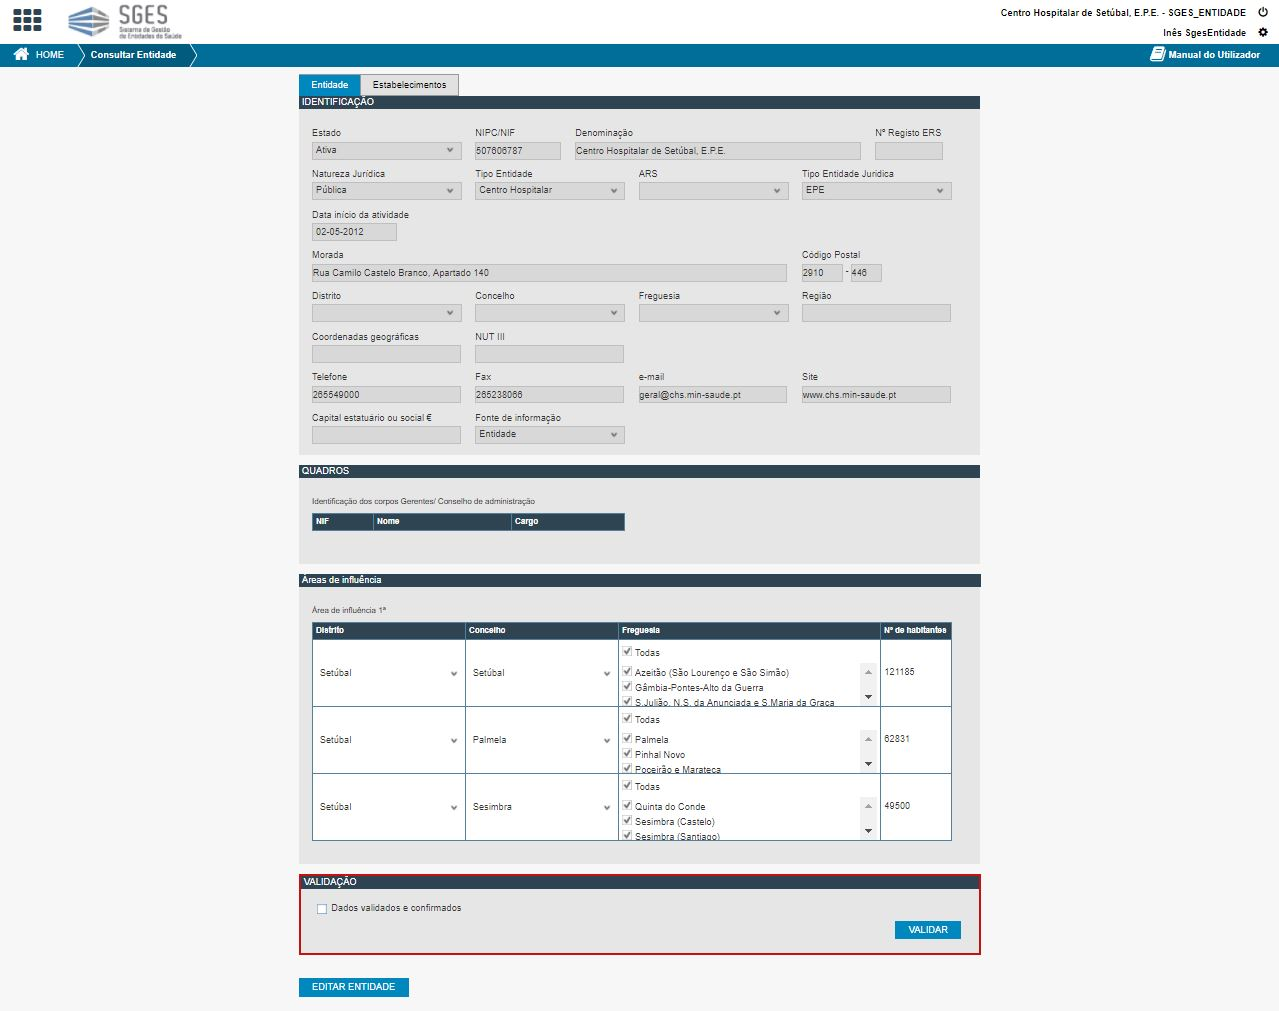
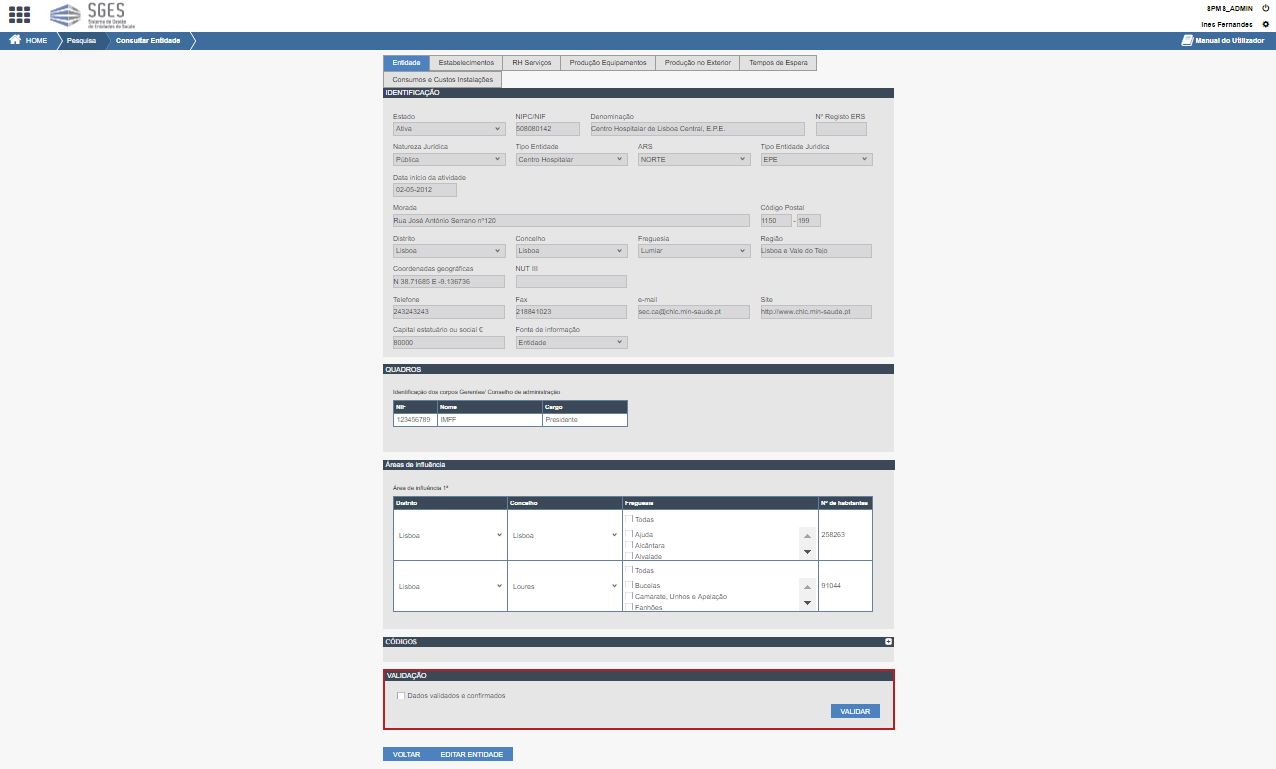
consumos custos instalacoes

diff --git a/Indice.html b/Indice.html
@@ -39,7 +39,6 @@
 					</ul>
 				</li>
 				<li>
-				<li>
 					<div> 5 - Menu Principal</div>
 					<ul>
 					    <li>
@@ -159,142 +158,150 @@
 					</ul>
 				</li>
 				<li>
-					<div>12 - Equipamentos</div>
+					<div> 12 - Consumos e Custos Instalações </div>
 					<ul>
-						<li>
-							<a href="#equipamentos">12 - Equipamentos</a>
-						</li>
-						<li>
-							<div>12.1 - Criar Equipamentos</div>
-							<ul>
-								<li>
-									<a href="#criaEquipamento">12.1 - Criar Equipamentos</a>
-								</li>
-								<li>
-									<a href="#identificao">12.1.1 - Identificação</a>
-								</li>
-								<li>
-									<a href="#outros-painis">12.1.2 - Outros painéis</a>
-								</li>
-							</ul>
-						</li>
-						<li>
-							<a href="#alteraEquipamento">12.2 - Editar Equipamentos</a>
-						</li>
-						<li>
-							<a href="#consultaEquipamento">12.3 - Consultar Equipamentos</a>
-						</li>
-						<li>
-							<a href="#transfereEquipamento">12.4 - Transferir Equipamentos</a>
-						</li>
-						<li>
-							<a href="#historicoEquipamento">12.5 - Histórico Equipamentos</a>
+					    <li>
+							<a href="#home">12 - Consumos e Custos Instalações</a>
 						</li>
 					</ul>
 				</li>
 				<li>
-					<div>13 - Validações</div>
+					<div>13 - Equipamentos</div>
 					<ul>
 						<li>
-							<a href="#validacao">13 - Validações</a>
+							<a href="#equipamentos">13 - Equipamentos</a>
+						</li>
+						<li>
+							<div>13.1 - Criar Equipamentos</div>
+							<ul>
+								<li>
+									<a href="#criaEquipamento">13.1 - Criar Equipamentos</a>
+								</li>
+								<li>
+									<a href="#identificao">13.1.1 - Identificação</a>
+								</li>
+								<li>
+									<a href="#outros-painis">13.1.2 - Outros painéis</a>
+								</li>
+							</ul>
+						</li>
+						<li>
+							<a href="#alteraEquipamento">13.2 - Editar Equipamentos</a>
+						</li>
+						<li>
+							<a href="#consultaEquipamento">13.3 - Consultar Equipamentos</a>
+						</li>
+						<li>
+							<a href="#transfereEquipamento">13.4 - Transferir Equipamentos</a>
+						</li>
+						<li>
+							<a href="#historicoEquipamento">13.5 - Histórico Equipamentos</a>
+						</li>
+					</ul>
+				</li>
+				<li>
+					<div>14 - Validações</div>
+					<ul>
+						<li>
+							<a href="#validacao">14 - Validações</a>
 						</li>
 						<ul>
 						    <li>
-							   <a href="#validarModulo">13.1 - Validar Módulo</a>
+							   <a href="#validarModulo">14.1 - Validar Módulo</a>
 						   </li>
 						   <li>
-							  <a href="#modulosValidaveis">13.2 - Módulos com validação</a>
+							  <a href="#modulosValidaveis">14.2 - Módulos com validação</a>
 						   </li>
 						</ul>
 					</ul>
 				</li>
 				<li>
-					<div>14 - Instalações</div>
+					<div>15 - Instalações</div>
 							<ul>
 								<li>
-								   <a href="#instalacao" > 14 - Instalações </a>
+								   <a href="#instalacao" > 15 - Instalações </a>
 								</li>
 								<li>
-								   <div> 14.1 - Criar Instalações</div>
+								   <div> 15.1 - Criar Instalações</div>
 								<ul>
 								    <li>
-									   <a href="#criaInstalacao">14.1 - Criar Instalações </a>
+									   <a href="#criaInstalacao">15.1 - Criar Instalações </a>
 								    </li>
 									<li>
-									   <a href="#caracterizao-inst">14.1.1 - Caracterização</a>
+									   <a href="#caracterizao-inst">15.1.1 - Caracterização</a>
 								    </li>
 								    <li>
-									   <a href="#detalhe-inst">14.1.2 - Detalhe</a>
+									   <a href="#detalhe-inst">15.1.2 - Detalhe</a>
 								    </li>
 								    <li>
-									   <a href="#equipamentos-crticos">14.1.3 - Equipamentos Críticos</a>
+									   <a href="#equipamentos-crticos">15.1.3 - Equipamentos Críticos</a>
 								    </li>
 								    <li>
-									    <a href="#servios">14.1.4 - Serviços</a>
+									    <a href="#servios">15.1.4 - Serviços</a>
 								    </li>
 								    <li>
-									   <a href="#contratos-de-manuteno">14.1.5 - Contratos de Manutenção</a>
+									   <a href="#contratos-de-manuteno">15.1.5 - Contratos de Manutenção</a>
 								    </li>
 								    <li>
-									   <a href="#avaliao-ps-ocupao">14.1.6 - Avaliação Pós-Ocupação</a>
+									   <a href="#avaliao-ps-ocupao">15.1.6 - Avaliação Pós-Ocupação</a>
 								    </li>
 								    <li>
-									   <a href="#acao-acss" ">14.1.7 - Ações ACSS</a>
+									   <a href="#acao-acss" ">15.1.7 - Ações ACSS</a>
 								    </li> 
 								 </ul>
 								 </li>
 					 	         <li>
-							         <a href="#editar-instalaes">14.2 - Editar Instalações</a>
+							         <a href="#editar-instalaes">15.2 - Editar Instalações</a>
 						         </li>
 						         <li>
-							         <a href="#consultar-instalaes">14.3 - Consultar Instalações</a>
+							         <a href="#consultar-instalaes">15.3 - Consultar Instalações</a>
 						         </li>
 						         <li>
-							         <a href="#histrico-instalaes">14.4 - Histórico Instalações</a>
+							         <a href="#histrico-instalaes">15.4 - Histórico Instalações</a>
 						         </li>
 							</ul>
 				</li>
 				 <li>
-				<div>15 - Acordos  e Convenções</div>
+				<div>16 - Acordos  e Convenções</div>
 					<ul>
 						<li>
-							<a href="#aconvencao">15 - Acordos e Convenções </a>
+							<a href="#aconvencao">16 - Acordos e Convenções </a>
 						</li>
 						<li>
-							 <div href="#registaAconvencao">15.1 - Criar Acordo/Convenção
+							 <div href="#registaAconvencao">16.1 - Criar Acordo/Convenção
 							 </div>
 								<ul>
 							  		 <li>
-							     		<a href="#areaConvencionada"> 15.1.1 - Adicionar Área </a>
+							     		<a href="#areaConvencionada"> 16.1.1 - Adicionar Área </a>
 							   		</li>
 							  		 <li>
-							    		 <a href="#estabelecimentosConvencionados">15.1.2 - Associar Estabelecimentos </a>
+							    		 <a href="#estabelecimentosConvencionados">16.1.2 - Associar Estabelecimentos </a>
 							  		 </li>
 							  		 <li>
-							    		 <a href="#rhConvencao">15.1.3 - Adicionar Recursos Humanos Técnicos </a>
+							    		 <a href="#rhConvencao">16.1.3 - Adicionar Recursos Humanos Técnicos </a>
 							   		</li>
 								</ul>
 							</li>
 						<li>
-							<a href="#alteraConvencao">15.2 - Editar Acordo </a>
+							<a href="#alteraConvencao">16.2 - Editar Acordo </a>
 						</li>
 						<li>
-							<a href="#consultaAconvencao">15.3 - Consultar Acordo/Convenção</a>
+							<a href="#consultaAconvencao">16.3 - Consultar Acordo/Convenção</a>
 						</li>
 						<li>
-					     <a href="#alteraEstado"> 15.4 - Alterar Estado </a>
+					     <a href="#alteraEstado"> 16.4 - Alterar Estado </a>
 						</li>
 						<li>
-					     <a href="#historicoConvencao"> 15.5 - Histórico Convenções </a>
+					     <a href="#historicoConvencao"> 16.5 - Histórico Convenções </a>
 						</li>
 						<li>
-					     <a href="#exportar"> 15.6 - Exportar Ficha Técnica </a>
+					     <a href="#exportar"> 16.6 - Exportar Ficha Técnica </a>
 						</li>
 						<li>
-					     <a href="#importar"> 15.7 - Importar Ficha Técnica </a>
+					     <a href="#importar"> 16.7 - Importar Ficha Técnica </a>
 						</li>
 						<li>
-							<a href="#atualizar">15.8 - Importar Atualizações da Ficha Técnica </a>
+							<a href="#atualizar">16.8 - Importar Atualizações da Ficha Técnica </a>
 						</li>
 					</ul>
 				</li>

diff --git a/index.html b/index.html
@@ -64,6 +64,7 @@
 			<div id="ModuloRhServicos" class="modulo"></div>
 			<div id="ModuloProducao" class="modulo"></div>
 			<div id="ModuloTempoEspera" class="modulo"></div>
+			<div id="ConsumosCustosInstalacoes" class="modulo"></div>
 			<div id="ModuloEquipamentos" class="modulo"></div>
 			<div id="ModuloValidacao" class="modulo"></div>
 			<div id="ModuloInstalacoes" class="modulo"></div>
@@ -97,6 +98,7 @@
 			$("#ModuloEstabelecimentos").load("content/estabelecimento.html");
 			$("#ModuloRhServicos").load("content/rhServico.html");
 			$("#ModuloTempoEspera").load("content/tempoEspera.html");
+			$("#ConsumosCustosInstalacoes").load("content/consumosCustosInstalacoes.html");
 			$("#ModuloProducao").load("content/producaoEquipamento.html");
 			$("#ModuloEquipamentos").load("content/equipamento.html");
 			$("#ModuloValidacao").load("content/validacao.html");
